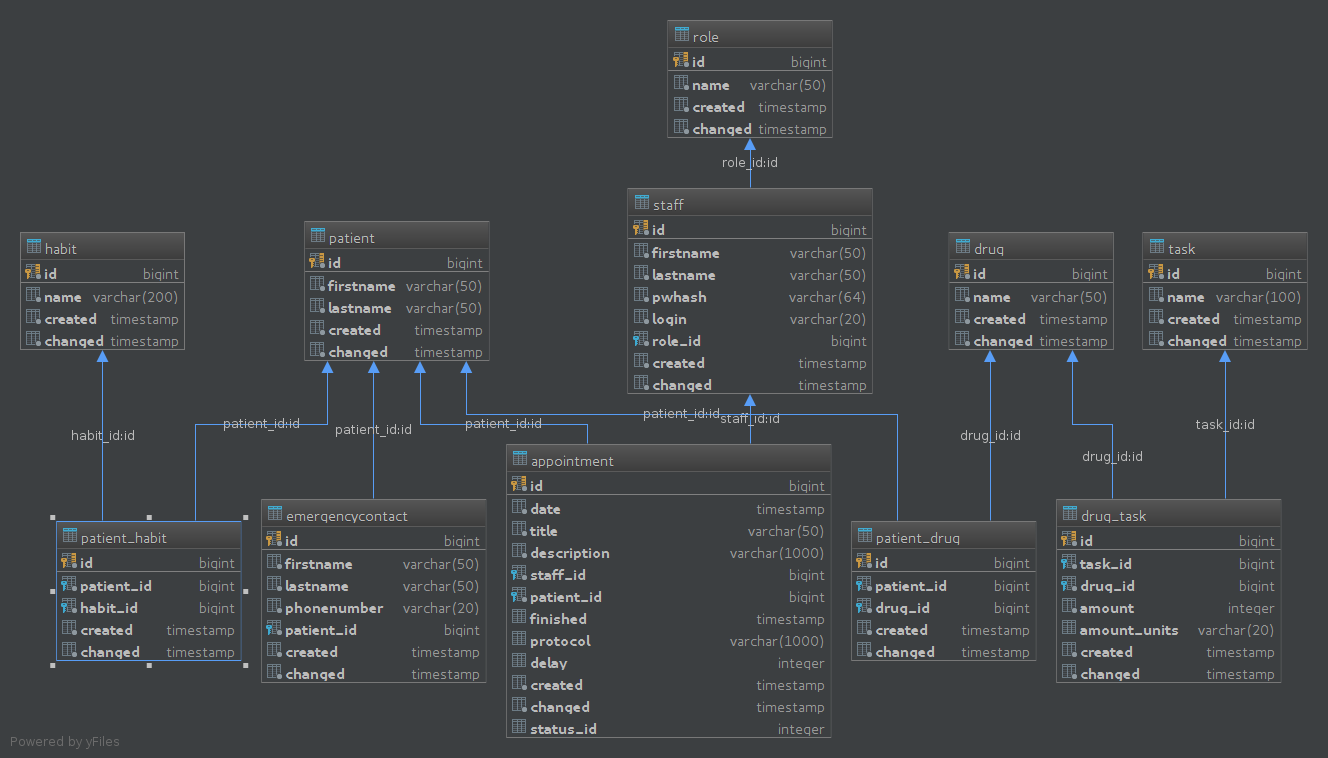
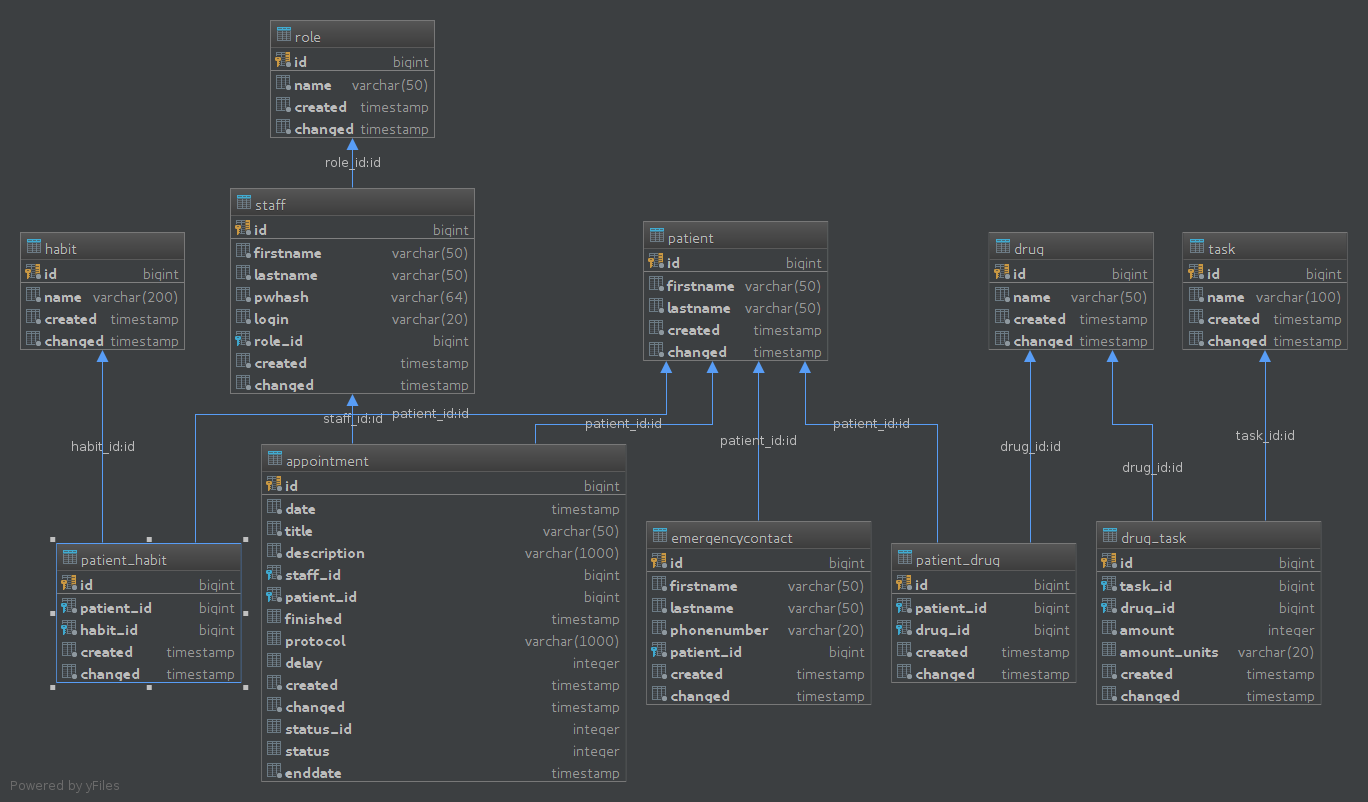
add end date

diff --git a/src/main/java/ch/bfh/bti7081/s2017/grey/database/dao/AppointmentDao.java b/src/main/java/ch/bfh/bti7081/s2017/grey/database/dao/AppointmentDao.java
@@ -40,14 +40,15 @@ public class AppointmentDao {
         return appointments;
     }
 
-    public void createAppointment(LocalDateTime date, String title, String description, Staff staff, Patient patient) {
+    public void createAppointment(LocalDateTime date, LocalDateTime end, String title, String description, Staff staff, Patient patient) {
 
         EntityManager entitymanager = EntityManagerSingleton.getInstance();
         entitymanager.getTransaction().begin();
 
         Instant instant = Instant.now();
         Appointment appointment = new Appointment();
-        appointment.setDate(Timestamp.valueOf(date));
+        appointment.setDate(date);
+        appointment.setEndDate(end);
         appointment.setTitle(title);
         appointment.setDescription(description);
         appointment.setStaff(staff);
@@ -60,13 +61,14 @@ public class AppointmentDao {
         entitymanager.getTransaction().commit();
     }
 
-    public void delayAppointment(long id, Timestamp newDate) {
+    public void delayAppointment(long id, LocalDateTime newDate, LocalDateTime newEnd) {
         EntityManager entityManager = EntityManagerSingleton.getInstance();
         entityManager.getTransaction().begin();
 
         Instant instant = Instant.now();
         Appointment appointment = entityManager.find(Appointment.class, id);
         appointment.setDate(newDate);
+        appointment.setEndDate(newEnd);
         appointment.setChanged(new Timestamp(instant.toEpochMilli()));
         appointment.delay();
 
@@ -87,14 +89,14 @@ public class AppointmentDao {
         entityManager.getTransaction().commit();
     }
 
-    public void finishAppointment(long id, Timestamp finished, int delay) {
+    public void finishAppointment(long id, LocalDateTime finished, int delay) {
         EntityManager entityManager = EntityManagerSingleton.getInstance();
         entityManager.getTransaction().begin();
 
         Instant instant = Instant.now();
         Appointment appointment = entityManager.find(Appointment.class, id);
         appointment.setChanged(new Timestamp(instant.toEpochMilli()));
-        appointment.setFinished(finished);
+        appointment.setFinished(Timestamp.valueOf(finished));
         appointment.setDelay(delay);
         appointment.finish();
 

diff --git a/src/test/java/ch/bfh/bti7081/s2017/grey/database/dao/AppointmentDaoTest.java b/src/test/java/ch/bfh/bti7081/s2017/grey/database/dao/AppointmentDaoTest.java
@@ -31,11 +31,12 @@ public class AppointmentDaoTest {
 
         // given
         LocalDateTime date = LocalDateTime.now();
+        LocalDateTime end = date.plusHours(1);
         Staff staff = staffDao.getStaffByLogin("vonaj2");
         Patient patient = patientDao.getPatientByName("Test", "Test");
 
         // when
-        appointmentDao.createAppointment(date, "appointment", "test for dao", staff, patient);
+        appointmentDao.createAppointment(date, end, "appointment", "test for dao", staff, patient);
 
         // then
         List<Appointment> appointments = appointmentDao.findAppointmentsForStaffAndDay(staff, date.toLocalDate());
@@ -55,11 +56,13 @@ public class AppointmentDaoTest {
 
     @Test
     public void testDelayAppointment() {
-        Timestamp date = new Timestamp(Instant.now().toEpochMilli());
-        appointmentDao.delayAppointment(appointment.getId(), date);
+        LocalDateTime date = LocalDateTime.now();
+        LocalDateTime end = date.plusHours(1);
+        appointmentDao.delayAppointment(appointment.getId(), date, end);
 
         assertEquals(AppointmentStatus.DELAYED, appointment.getStatus());
-        assertEquals(date, appointment.getDate());
+        assertEquals(date, appointment.getDate().toLocalDateTime());
+        assertEquals(end, appointment.getEndDate().toLocalDateTime());
     }
 
     @Test
@@ -71,12 +74,12 @@ public class AppointmentDaoTest {
 
     @Test
     public void testFinishAppointment() {
-        Timestamp finished = new Timestamp(Instant.now().toEpochMilli());
+        LocalDateTime finished = LocalDateTime.now();
         int delay = 30;
         appointmentDao.finishAppointment(appointment.getId(), finished, delay);
 
         assertEquals(AppointmentStatus.FINISHED, appointment.getStatus());
-        assertEquals(finished, appointment.getFinished());
+        assertEquals(finished, appointment.getFinished().toLocalDateTime());
         assertEquals(delay, appointment.getDelay());
     }
 }

diff --git a/src/main/java/ch/bfh/bti7081/s2017/grey/database/entity/Appointment.java b/src/main/java/ch/bfh/bti7081/s2017/grey/database/entity/Appointment.java
@@ -2,6 +2,7 @@ package ch.bfh.bti7081.s2017.grey.database.entity;
 
 import javax.persistence.*;
 import java.sql.Timestamp;
+import java.time.LocalDateTime;
 
 /**
  * @Author Quentin
@@ -13,6 +14,7 @@ public class Appointment {
     @GeneratedValue
     private long id;
     private Timestamp date;
+    private Timestamp endDate;
     private String title;
     private String description;
     @ManyToOne
@@ -38,8 +40,14 @@ public class Appointment {
         return date;
     }
 
-    public void setDate(Timestamp date) {
-        this.date = date;
+    public void setDate(LocalDateTime date) {
+        this.date = Timestamp.valueOf(date);
+    }
+
+    public Timestamp getEndDate() { return endDate;}
+
+    public void setEndDate(LocalDateTime end) {
+        this.endDate = Timestamp.valueOf(end);
     }
 
     public String getDescription() {

diff --git a/src/main/java/ch/bfh/bti7081/s2017/grey/service/impl/AppointmentServiceImpl.java b/src/main/java/ch/bfh/bti7081/s2017/grey/service/impl/AppointmentServiceImpl.java
@@ -27,7 +27,7 @@ public class AppointmentServiceImpl implements AppointmentService {
     }
 
     @Override
-    public void createAppointment(Patient patient, Staff staff, String description, String title, LocalDateTime date) {
-        appointmentDao.createAppointment(date, title, description, staff, patient);
+    public void createAppointment(Patient patient, Staff staff, String description, String title, LocalDateTime date, LocalDateTime end) {
+        appointmentDao.createAppointment(date, end, title, description, staff, patient);
     }
 }

diff --git a/src/main/java/ch/bfh/bti7081/s2017/grey/service/AppointmentService.java b/src/main/java/ch/bfh/bti7081/s2017/grey/service/AppointmentService.java
@@ -15,5 +15,5 @@ public interface AppointmentService {
 
     List<Appointment> findAppointmentsByStaffAndDate(Staff staff, LocalDate date);
 
-    void createAppointment(Patient patient, Staff staff, String description, String title, LocalDateTime date);
+    void createAppointment(Patient patient, Staff staff, String description, String title, LocalDateTime date, LocalDateTime end);
 }
